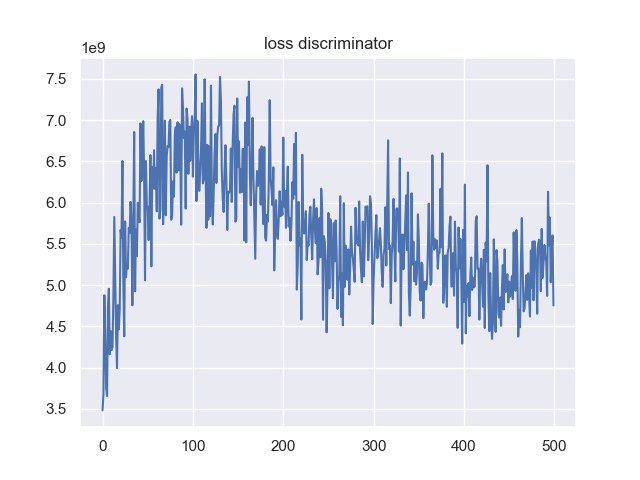
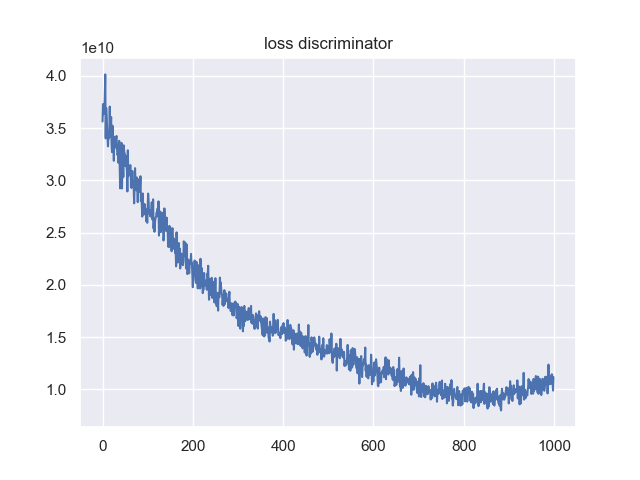
remove logger and enable_sm

diff --git a/alad/run.py b/alad/run.py
@@ -1,5 +1,4 @@
 import warnings
-
 warnings.filterwarnings('ignore')
 import time
 import numpy as np
@@ -7,7 +6,6 @@ import tensorflow.compat.v1 as tf
 
 tf.disable_v2_behavior()
 import os
-# import tf_cnnvis
 import logging
 import importlib
 import sys
@@ -26,7 +24,6 @@ def get_getter(ema):  # to update neural net with moving avg variables, suitable
         var = getter(name, *args, **kwargs)
         ema_var = ema.average(var)
         return ema_var if ema_var else var
-
     return ema_getter
 
 
@@ -82,8 +79,6 @@ def train_and_test(dataset, nb_epochs, degree, random_seed, label,
      """
     config = tf.ConfigProto()
     config.gpu_options.allow_growth = True
-    logger = logging.getLogger("ALAD.run.{}.{}".format(
-        dataset, label))
 
     # Import model and data
     sys.path.append('/content/Adversarially-Learned-Anomaly-Detection')
@@ -99,15 +94,13 @@ def train_and_test(dataset, nb_epochs, degree, random_seed, label,
     global_step = tf.Variable(0, name='global_step', trainable=False)
 
     # Placeholders
-    x_pl = tf.placeholder(tf.float32, shape=data.get_shape_input(),
-                          name="input_x")
-    z_pl = tf.placeholder(tf.float32, shape=[None, latent_dim],
-                          name="input_z")
+    x_pl = tf.placeholder(tf.float32, shape=data.get_shape_input(),name="input_x")
+    z_pl = tf.placeholder(tf.float32, shape=[None, latent_dim], name="input_z")
     is_training_pl = tf.placeholder(tf.bool, [], name='is_training_pl')
     learning_rate = tf.placeholder(tf.float32, shape=(), name="lr_pl")
 
     # Data
-    logger.info('Data loading...')
+    print('Data loading...')
     trainx, trainy = data.get_train(label)
     trainx_copy = trainx.copy()
     if enable_early_stop: validx, validy = data.get_valid(label)
@@ -117,9 +110,8 @@ def train_and_test(dataset, nb_epochs, degree, random_seed, label,
     nr_batches_train = int(trainx.shape[0] / batch_size)
     nr_batches_test = int(testx.shape[0] / batch_size)
 
-    logger.info('Building graph...')
-
-    logger.warn("ALAD is training with the following parameters:")
+    print('Building graph...')
+    print("ALAD is training with the following parameters:")
     display_parameters(batch_size, starting_lr, ema_decay, degree, label,
                        allow_zz, score_method, do_spectral_norm)
 
@@ -129,9 +121,7 @@ def train_and_test(dataset, nb_epochs, degree, random_seed, label,
     dis_xx = network.discriminator_xx
     dis_zz = network.discriminator_zz
     dis_xxzz = network.discriminator_xxzz
-    # tf.keras.utils.plot_model(dis_xxzz,to_file = "./dxxzz_arrhythmia.png", show_layer_names=True,
-    # rankdir='TB', show_shapes = True, expand_nested = True)
-    # print("hello")
+
     with tf.variable_scope('encoder_model'):
         z_gen = enc(x_pl, is_training=is_training_pl,
                     do_spectral_norm=do_spectral_norm)
@@ -225,7 +215,7 @@ def train_and_test(dataset, nb_epochs, degree, random_seed, label,
 
         cost_x = tf.reduce_mean(x_real_gen + x_fake_gen)
         cost_z = tf.reduce_mean(z_real_gen + z_fake_gen)
-        cost_xz = tf.reduce_mean(xz_real_gen + xz_fake_gen)
+        cost_xz = 0 #tf.reduce_mean(xz_real_gen + xz_fake_gen)
 
         cycle_consistency_loss = cost_x + cost_z + cost_xz if allow_zz else cost_x + cost_xz
         loss_generator = gen_loss_xz + cycle_consistency_loss
@@ -372,53 +362,6 @@ def train_and_test(dataset, nb_epochs, degree, random_seed, label,
     if enable_early_stop:
         rec_error_valid = tf.reduce_mean(score_fm)
 
-    if enable_sm:
-
-        with tf.name_scope('summary'):
-            with tf.name_scope('dis_summary'):
-                tf.summary.scalar('loss_discriminator', loss_discriminator, ['dis'])
-                tf.summary.scalar('loss_dis_encoder', loss_dis_enc, ['dis'])
-                tf.summary.scalar('loss_dis_gen', loss_dis_gen, ['dis'])
-                tf.summary.scalar('loss_dis_xz', dis_loss_xz, ['dis'])
-                tf.summary.scalar('loss_dis_xx', dis_loss_xx, ['dis'])
-                tf.summary.scalar('loss_dis_xxzz', dis_loss_xxzz, ['dis'])
-                if allow_zz:
-                    tf.summary.scalar('loss_dis_zz', dis_loss_zz, ['dis'])
-
-            with tf.name_scope('gen_summary'):
-                tf.summary.scalar('loss_generator', loss_generator, ['gen'])
-                tf.summary.scalar('loss_encoder', loss_encoder, ['gen'])
-                tf.summary.scalar('loss_encgen_dxx', cost_x, ['gen'])
-                if allow_zz:
-                    tf.summary.scalar('loss_encgen_dzz', cost_z, ['gen'])
-
-            if enable_early_stop:
-                with tf.name_scope('validation_summary'):
-                    tf.summary.scalar('valid', rec_error_valid, ['v'])
-
-            with tf.name_scope('img_summary'):
-                heatmap_pl_latent = tf.placeholder(tf.float32,
-                                                   shape=(1, 480, 640, 3),
-                                                   name="heatmap_pl_latent")
-                sum_op_latent = tf.summary.image('heatmap_latent', heatmap_pl_latent)
-
-            if dataset in IMAGES_DATASETS:
-                with tf.name_scope('image_summary'):
-                    tf.summary.image('reconstruct', rec_x, 8, ['image'])
-                    tf.summary.image('input_images', x_pl, 8, ['image'])
-
-            else:
-                heatmap_pl_rec = tf.placeholder(tf.float32, shape=(1, 480, 640, 3),
-                                                name="heatmap_pl_rec")
-                with tf.name_scope('image_summary'):
-                    tf.summary.image('heatmap_rec', heatmap_pl_rec, 1, ['image'])
-
-            sum_op_dis = tf.summary.merge_all('dis')
-            sum_op_gen = tf.summary.merge_all('gen')
-            sum_op = tf.summary.merge([sum_op_dis, sum_op_gen])
-            sum_op_im = tf.summary.merge_all('image')
-            sum_op_valid = tf.summary.merge_all('v')
-
     logdir = create_logdir(dataset, label, random_seed, allow_zz, score_method,
                            do_spectral_norm)
 
@@ -426,12 +369,12 @@ def train_and_test(dataset, nb_epochs, degree, random_seed, label,
     save_model_secs = None # if enable_early_stop else 20
     sv = tf.train.Supervisor(logdir=logdir, save_summaries_secs=None, saver=saver, save_model_secs=save_model_secs)
 
-    logger.info('Start training...')
+    print('Start training...')
     with sv.managed_session(config=config) as sess:
 
         step = sess.run(global_step)
-        logger.info('Initialization done at step {}'.format(step / nr_batches_train))
-        writer = tf.summary.FileWriter(logdir, sess.graph)
+        print('Initialization done at step {}'.format(step / nr_batches_train))
+        # writer = tf.summary.FileWriter(logdir, sess.graph)
         train_batch = 0
         epoch = 0
         best_valid_loss = 0
@@ -490,21 +433,6 @@ def train_and_test(dataset, nb_epochs, degree, random_seed, label,
                 train_loss_gen += lg
                 train_loss_enc += le
 
-                if enable_sm:
-                    sm = sess.run(sum_op, feed_dict=feed_dict)
-                    # writer.add_summary(sm, step)
-
-                    if t % FREQ_PRINT == 0 and dataset in IMAGES_DATASETS:  # inspect reconstruction
-                        t = np.random.randint(0, trainx.shape[0] - batch_size)
-                        ran_from = t
-                        ran_to = t + batch_size
-                        feed_dict = {x_pl: trainx[ran_from:ran_to],
-                                     z_pl: np.random.normal(
-                                         size=[batch_size, latent_dim]),
-                                     is_training_pl: False}
-                        sm = sess.run(sum_op_im, feed_dict=feed_dict)
-                        # writer.add_summary(sm, step)  # train_batch)
-
                 train_batch += 1
 
             train_loss_gen /= nr_batches_train
@@ -515,7 +443,6 @@ def train_and_test(dataset, nb_epochs, degree, random_seed, label,
             train_loss_dis_zz /= nr_batches_train
             train_loss_dis_xxzz /= nr_batches_train
 
-            logger.info('Epoch terminated')
             if allow_zz:
                 print("Epoch %d | time = %ds | loss gen = %.4f | loss enc = %.4f | "
                       "loss dis = %.4f | loss dis xz = %.4f | loss dis xx = %.4f | "
@@ -542,15 +469,11 @@ def train_and_test(dataset, nb_epochs, degree, random_seed, label,
                 vl, lat = sess.run([rec_error_valid, rec_z], feed_dict=feed_dict)
                 valid_loss += vl
 
-                if enable_sm:
-                    sm = sess.run(sum_op_valid, feed_dict=feed_dict)
-                    # writer.add_summary(sm, step)  # train_batch)
-
-                logger.info('Validation: valid loss {:.4f}'.format(valid_loss))
+                print('Validation: valid loss {:.4f}'.format(valid_loss))
 
                 if (valid_loss < best_valid_loss or epoch == FREQ_EV - 1):
                     best_valid_loss = valid_loss
-                    logger.info("Best model - valid loss = {:.4f} - saving...".format(best_valid_loss))
+                    print("Best model - valid loss = {:.4f} - saving...".format(best_valid_loss))
                     # sv.saver.save(sess, logdir + '/model.ckpt', global_step=step)
                     nb_without_improvements = 0
                 else:
@@ -558,7 +481,7 @@ def train_and_test(dataset, nb_epochs, degree, random_seed, label,
 
                 if nb_without_improvements > PATIENCE:
                     sv.request_stop()
-                    logger.warning(
+                    print(
                         "Early stopping at epoch {} with weights from epoch {}".format(
                             epoch, epoch - nb_without_improvements))
 
@@ -566,8 +489,7 @@ def train_and_test(dataset, nb_epochs, degree, random_seed, label,
 
         # sv.saver.save(sess, logdir + '/model.ckpt', global_step=step)
 
-        logger.warn('Testing evaluation...')
-
+        print('Testing evaluation...')
         scores_z_ema = []
         scores_z = []
         scores_ch = []
@@ -595,7 +517,7 @@ def train_and_test(dataset, nb_epochs, degree, random_seed, label,
             inference_time.append(time.time() - begin_test_time_batch)
 
         inference_time = np.mean(inference_time)
-        logger.info('Testing : mean inference time is %.4f' % (inference_time))
+        print('Testing : mean inference time is %.4f' % (inference_time))
 
         if testx.shape[0] % batch_size != 0:
             batch, size = batch_fill(testx, batch_size)
@@ -643,6 +565,6 @@ def run(args):
                        args.enable_early_stop, args.sn)
 
 
-train_and_test(dataset="arrythmia", nb_epochs=500, degree=2, random_seed=2
+train_and_test(dataset="arrhythmia", nb_epochs=1000, degree=2, random_seed=2
                , label=1, allow_zz=True, enable_sm=True, score_method=""
                , enable_early_stop=False, do_spectral_norm=False)

diff --git a/data/arrhythmia.py b/data/arrhythmia.py
@@ -69,8 +69,8 @@ def _get_dataset(scale):
     """
     global final_dataset
     if not bool(final_dataset):
-        # data = scipy.io.loadmat("D:/univesity/foqelisans/final_project/code/Adversarially-Learned-Anomaly-Detection_dxxzz/data/arrhythmia.mat")
-        data = scipy.io.loadmat("/content/drive/MyDrive/colab/ALAD/arrhythmia.mat")
+        data = scipy.io.loadmat("D:/univesity/foqelisans/final_project/code/Adversarially-Learned-Anomaly-Detection_dxxzz/data/arrhythmia.mat")
+        # data = scipy.io.loadmat("/content/drive/MyDrive/colab/ALAD/arrhythmia.mat")
 
         full_x_data = data["X"]
         full_y_data = data['y']
